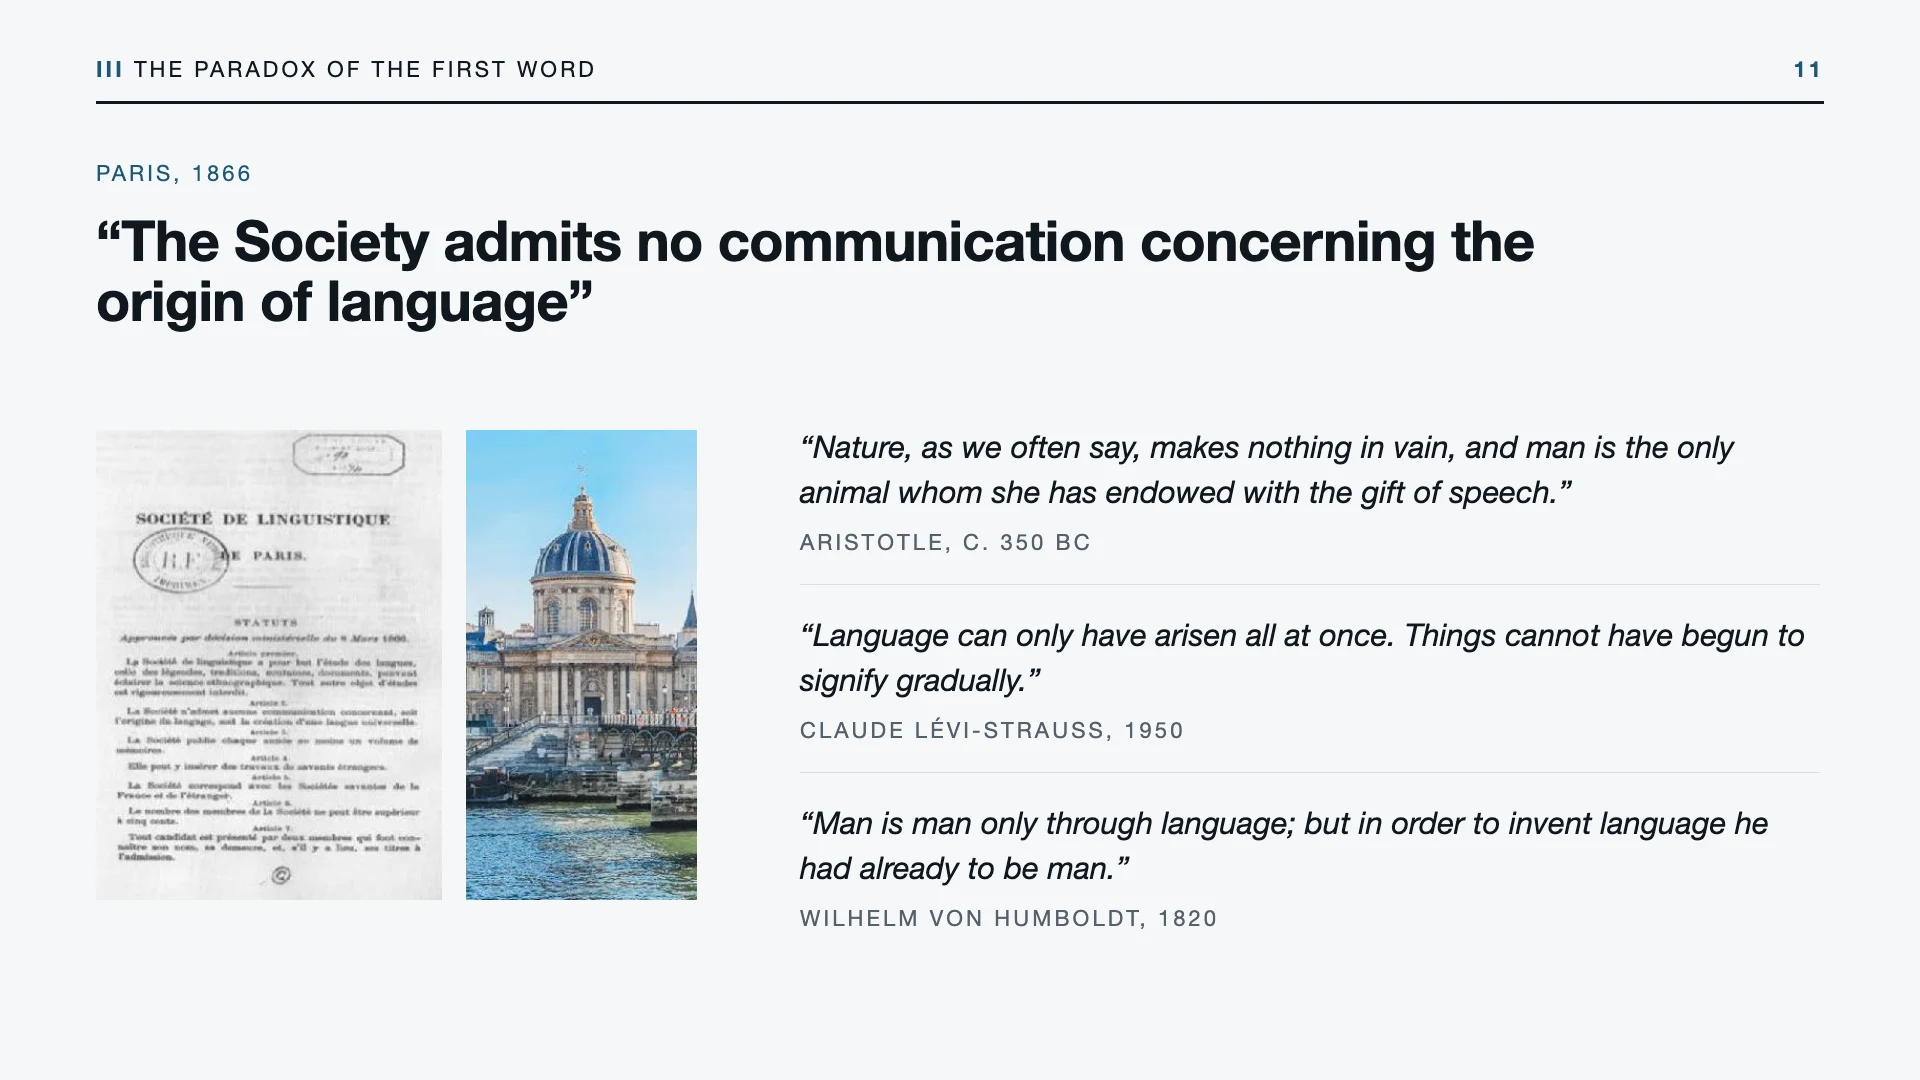
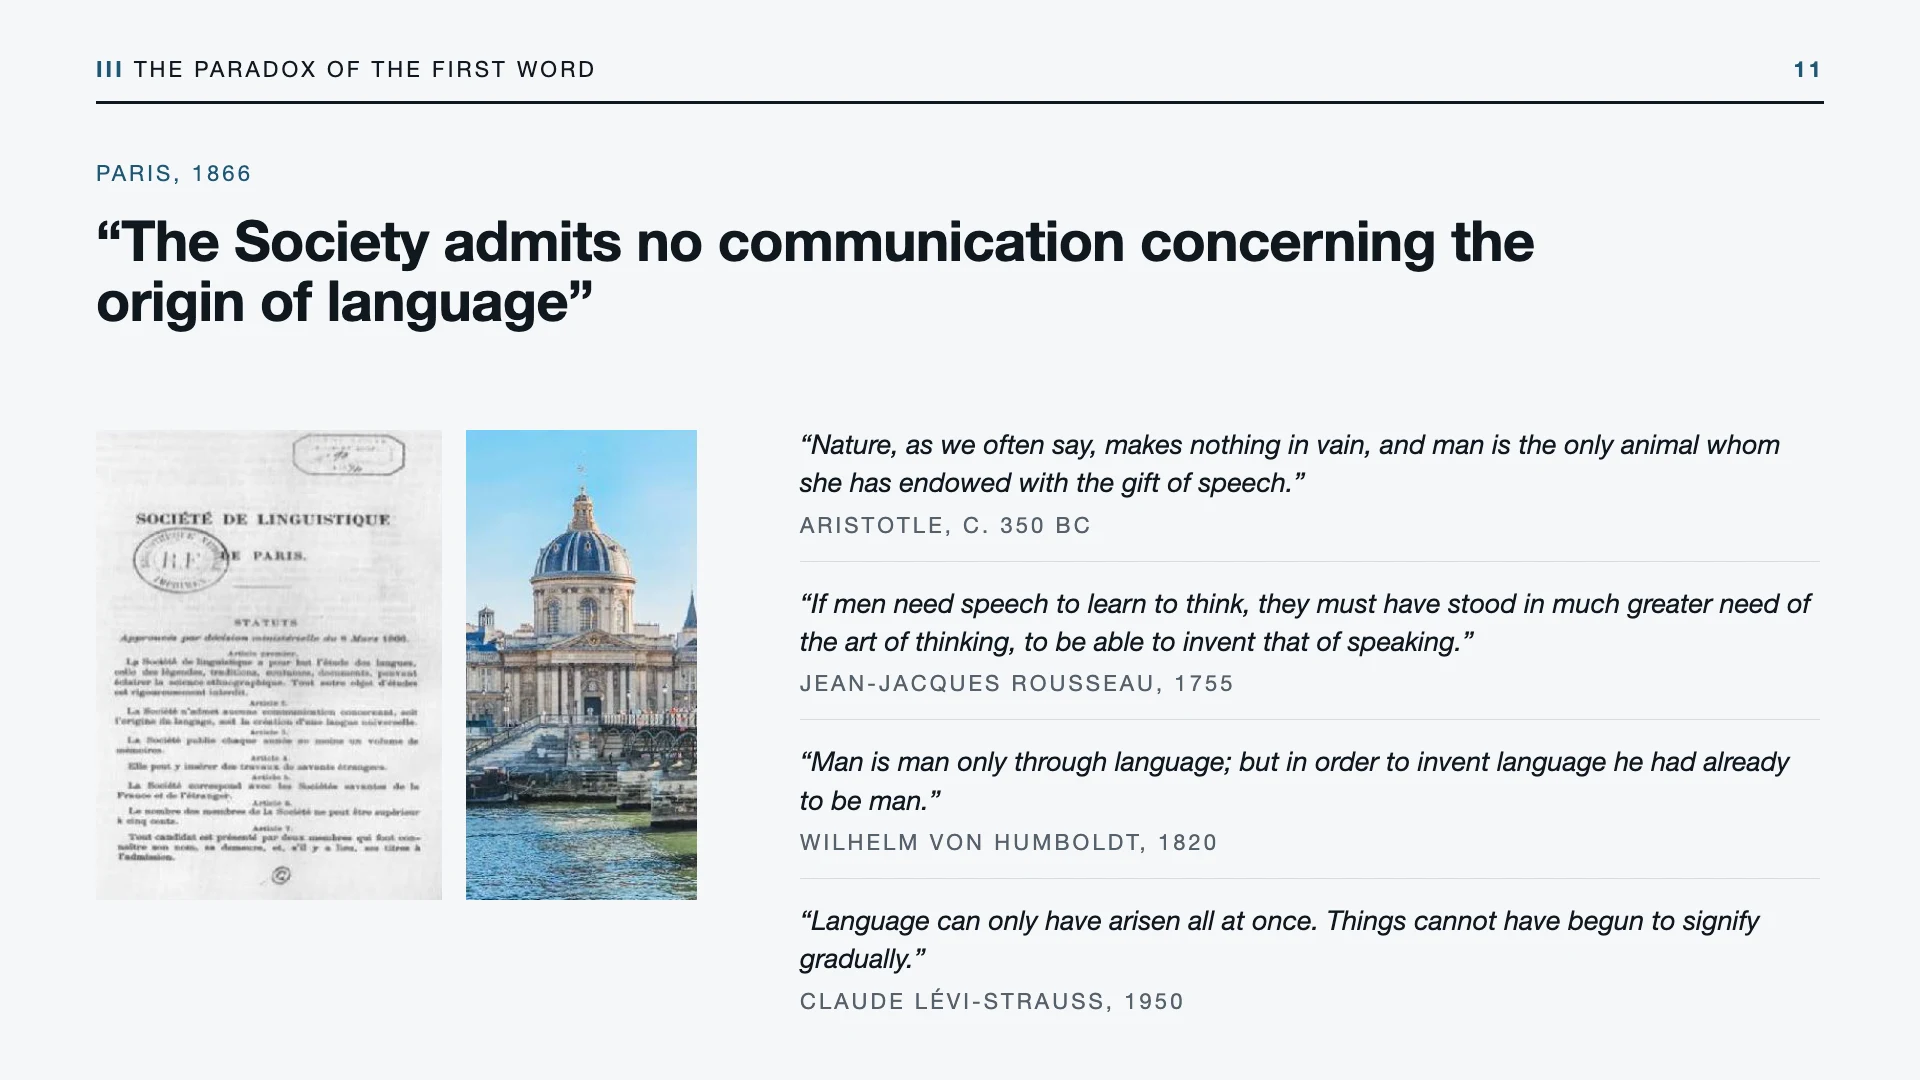
Intro talk: Rousseau's paradox added to section III and slide 11; punchline in bold; bridge reworded

Changed region(s): [[0.4062, 0.55, 0.9375, 0.9472], [0.4062, 0.3972, 0.9375, 0.5194]]

diff --git a/src/app/intro-center-study-zack-baker/page.tsx b/src/app/intro-center-study-zack-baker/page.tsx
@@ -34,7 +34,9 @@ export const metadata: Metadata = {
 // events "about twenty years apart". Two sentences were added by the owner
 // the same day: the bridge that opens section IV, and the Gans quotation
 // after "something like love"; and, on 2026-11-21, Aristotle's line on speech
-// (Politics 1253a, Jowett) at the head of the quotations in section III; and
+// (Politics 1253a, Jowett) at the head of the quotations in section III, and
+// after it Rousseau's (Discourse on Inequality, Part I, Cole); the bridge
+// now ends "share it in the first instance?"; the punchline in IV is bold; and
 // the end of section I's first paragraph and the start of its second were
 // reworded by the owner (the originary hypothesis, "the foundation of
 // Center Study", in place of generative anthropology). Long paragraphs may be split; the
@@ -368,8 +370,8 @@ export default function IntroPage() {
       </P>
       <Slide n={11} alt="Société de Linguistique de Paris, statutes of 1866, Article 2" />
       <P>
-        There&rsquo;s a history here, with people like Aristotle, Claude
-        Lévi-Strauss and Wilhelm von Humboldt.{' '}
+        There&rsquo;s a history here, with people like Aristotle, Jean-Jacques
+        Rousseau, Claude Lévi-Strauss and Wilhelm von Humboldt.{' '}
         <a
           href="https://en.wikisource.org/wiki/The_Politics_(translated_by_Jowett)/Book_1"
           target="_blank"
@@ -379,6 +381,18 @@ export default function IntroPage() {
         >
           &ldquo;Nature, as we often say, makes nothing in vain, and man is the
           only animal whom she has endowed with the gift of speech.&rdquo;
+          <sup className="ml-0.5 text-[11px] text-gray-400 dark:text-gray-500" aria-hidden>&#8599;</sup>
+        </a>{' '}
+        <a
+          href="https://en.wikisource.org/wiki/Discourse_on_the_Origin_of_Inequality_Among_Men/Part_I"
+          target="_blank"
+          rel="noopener noreferrer"
+          className="underline decoration-dotted decoration-gray-400 dark:decoration-gray-600 underline-offset-2 hover:decoration-solid hover:decoration-gray-700 dark:hover:decoration-gray-400 transition-colors"
+          title="Rousseau, Discourse on the Origin of Inequality (1755), Part I, translated by G. D. H. Cole"
+        >
+          &ldquo;If men need speech to learn to think, they must have stood in
+          much greater need of the art of thinking, to be able to invent that
+          of speaking.&rdquo;
           <sup className="ml-0.5 text-[11px] text-gray-400 dark:text-gray-500" aria-hidden>&#8599;</sup>
         </a>{' '}
         <Q slug="clr-628" q="arisen all at once">&ldquo;Language can only have arisen all at
@@ -465,16 +479,19 @@ export default function IntroPage() {
       <Slide n={13} alt="The originary hypothesis" />
       <P>
         So the question of the first word becomes: how did creatures who
-        could not share attention come to share it? Gans&rsquo; answer is a
-        scene.
+        could not share attention share it in the first instance?
+        Gans&rsquo; answer is a scene.
       </P>
       <P>
         It all comes together in what Gans called the{' '}
         <TermLink href="/concepts/originary-scene" defKey="g:originary-hypothesis" className={TERM_CLASS} title="Concept: the originary scene">originary scene</TermLink>
         , or the originary hypothesis. The punchline, if I can get you to
-        remember one thing when you leave: the{' '}
-        <TermLink href="/concepts/deferral" defKey="c:deferral" className={TERM_CLASS} title="Concept: deferral">deferral</TermLink>
-        {' '}of violence through representation.
+        remember one thing when you leave:{' '}
+        <strong>
+          the{' '}
+          <TermLink href="/concepts/deferral" defKey="c:deferral" className={TERM_CLASS} title="Concept: deferral">deferral</TermLink>
+          {' '}of violence through representation.
+        </strong>
       </P>
       <P>
         Gans preserves from Girard the violent origin, but unlike Girard,
